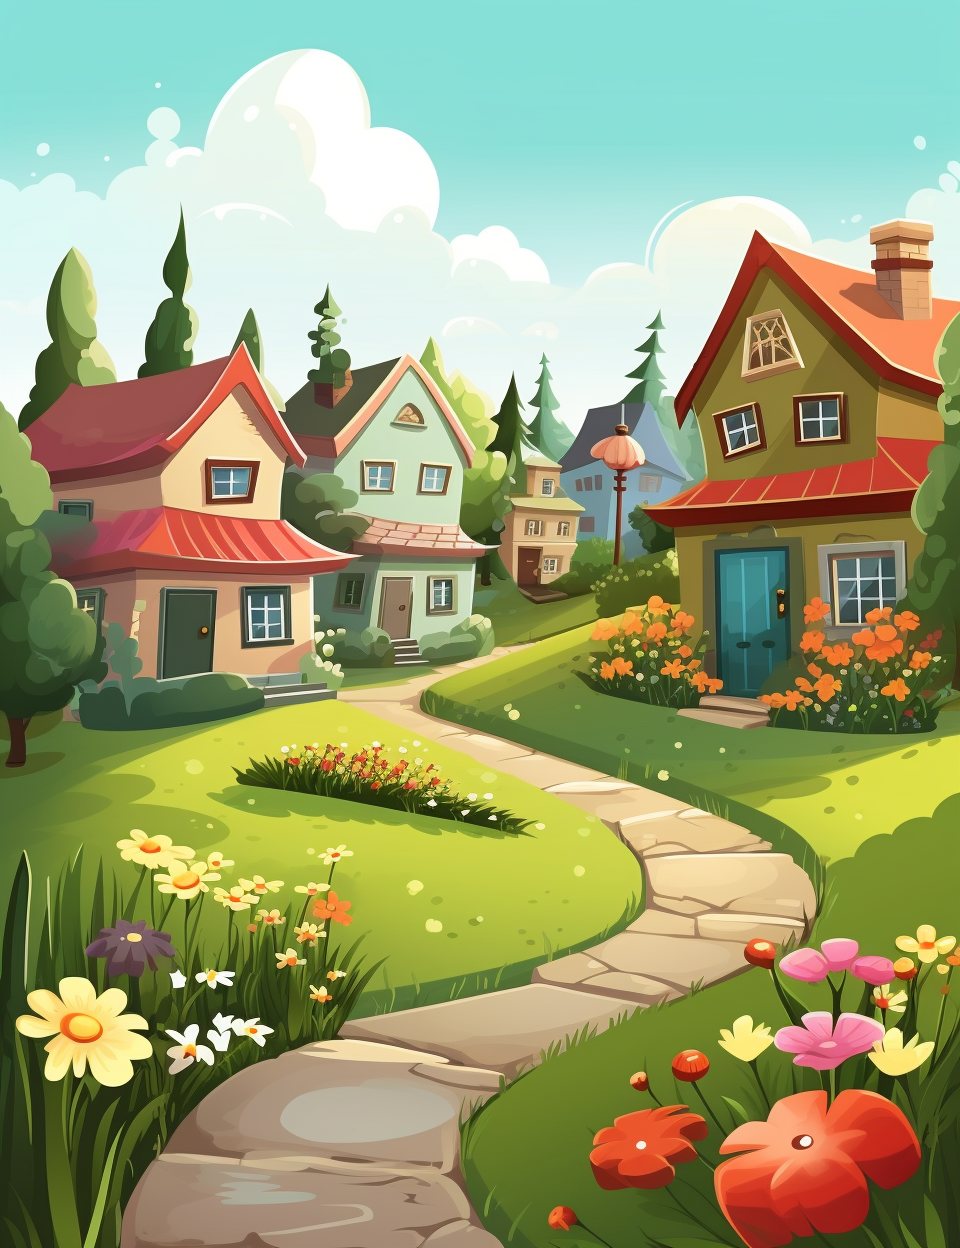
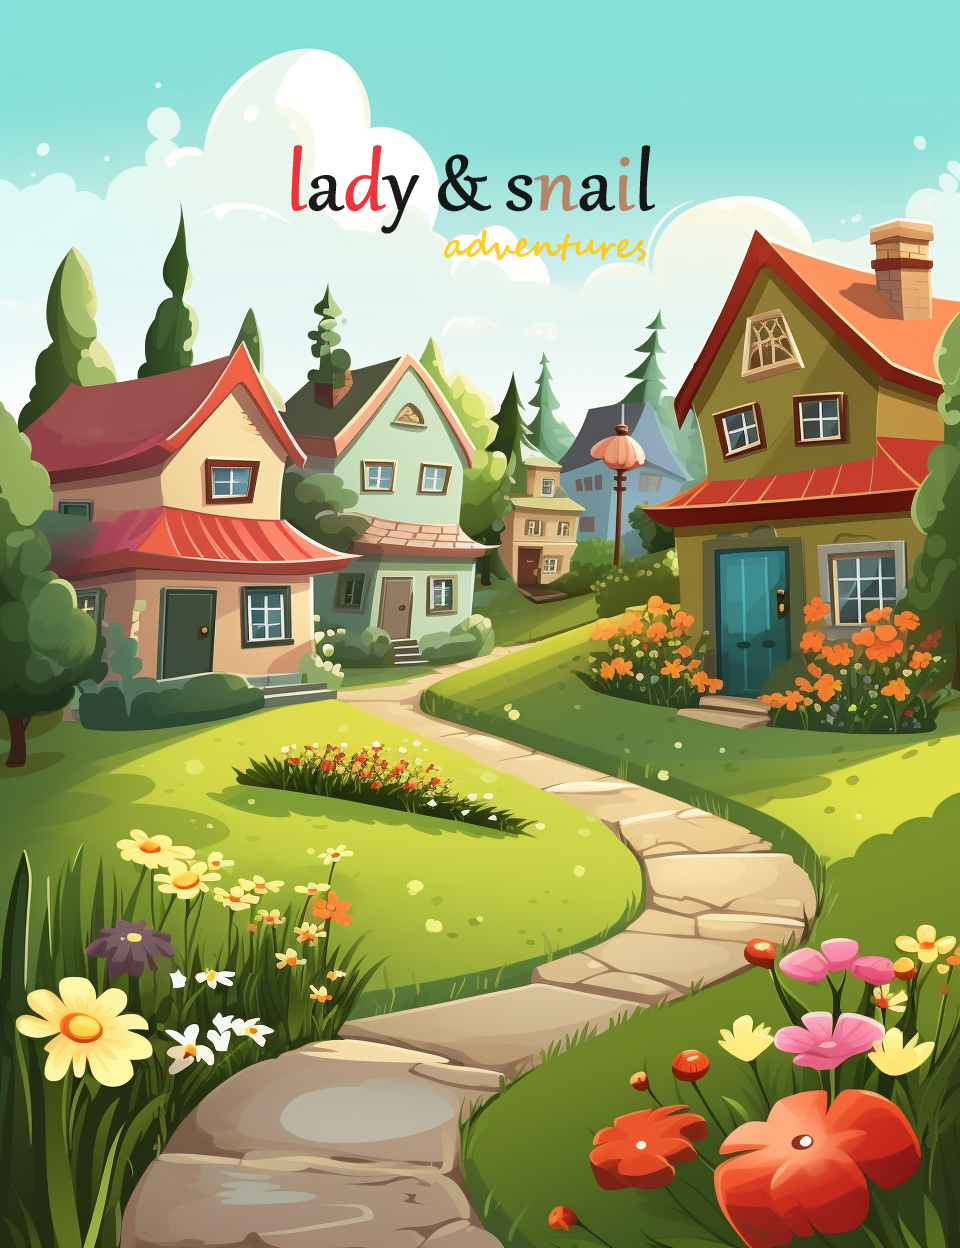
more assets and first lines of code

Changed region(s): [[0.2812, 0.125, 0.6875, 0.2188]]

diff --git a/index.html b/index.html
@@ -1,0 +1,45 @@
+<!DOCTYPE html>
+<html lang="en">
+  <head>
+    <meta charset="UTF-8" />
+    <meta name="viewport" content="width=device-width, initial-scale=1.0" />
+    <meta http-equiv="X-UA-Compatible" content="ie=edge" />
+    <link rel="stylesheet" href="./styles/style.css" />
+    <title>Lady and Snail Adventures</title>
+  </head>
+  <body>
+    <main>
+      <div id="game-intro">
+        <img src="./images/background2.png" alt="" class="background2-img" />
+        <br />
+        <button id="start-button">Start Game</button>
+        <p>Use the left and right arrow to control the character!</p>
+        <img src="./images/arrows.png" alt="" class="arrows-img" />
+      </div>
+
+      <div id="game-container">
+        <div>
+          <h2>Stats</h2>
+          <p>Score: <span id="Score">0</span></p>
+          <p>Lives: <span id="Lives">0</span></p>
+        </div>
+        <!-- #game-screen is initially hidden using CSS style display: none -->
+        <div id="game-screen"></div>
+      </div>
+
+      <!-- #game-end is initially hidden using CSS style display: none -->
+      <div id="game-end">
+        <img src="./images/gameover.png" alt="" class="game-over-screen" />
+        <h1>Game Over</h1>
+        <br />
+        <button id="restart-button">Restart</button>
+      </div>
+    </main>
+    <script type="text/javascript" src="js/obstacle-bad.js"></script>
+    <script type="text/javascript" src="js/obstacle-good.js"></script>
+    <script type="text/javascript" src="js/snail.js"></script>
+    <script type="text/javascript" src="js/ladybird.js"></script>
+    <script type="text/javascript" src="js/game.js"></script>
+    <script type="text/javascript" src="js/script.js"></script>
+  </body>
+</html>

diff --git a/styles/styles.css b/styles/styles.css
@@ -1,0 +1,66 @@
+body {
+    padding: 0;
+    text-align: center;
+  }
+  
+  #game-intro {
+    padding: 20px 0px;
+  }
+  
+  #game-container {
+    display: flex;
+    width: 100vw;
+    padding: 20px 0px;
+    justify-content: center;
+  }
+  
+  #game-screen {
+    display: none;
+    align-content: center;
+    padding: 20px 0px;
+    overflow: hidden;
+    position: relative;
+    background-image: url(../images/background.jpg);
+    background-size: cover;
+    animation: slide 5s linear infinite;
+  }
+  
+  @keyframes slide {
+    0% {
+      background-position: 0 -1000px;
+    }
+    95% {
+      background-position: 0 0;
+    }
+    100% {
+      background-position: 0 50px;
+    }
+  }
+  
+  #game-end {
+    display: none;
+  }
+  
+  .game-intro p {
+    font-size: 18px;
+    font-family: "Verdana";
+  }
+  
+  .logo-img {
+    width: 350px;
+  }
+  
+  .arrows-img {
+    width: 150px;
+  }
+  
+  body button {
+    font-size: 30px;
+    background-color: #870007;
+    color: #fff;
+    padding: 20px 40px;
+    border: 0;
+    box-shadow: 0;
+    border-radius: 5px;
+    margin-bottom: 20px;
+  }

diff --git a/js/game.js b/js/game.js
@@ -1,0 +1,34 @@
+class Game {
+  constructor() {
+    this.startScreen = document.getElementById("game-intro");
+    this.gameScreen = document.getElementById("game-screen");
+    this.gameEndScreen = document.getElementById("game-end");
+    this.player1 = new Player(
+      this.gameScreen,
+      50,
+      50,
+      400,
+      250,
+      "../images/ladyplayer.png"
+    );
+    this.player2 = new Player(
+      this.gameScreen,
+      50,
+      50,
+      400,
+      250,
+      "../images/snailplayer.png"
+    );
+    this.height = 600;
+    this.width = 500;
+    this.obstacles = [new Obstacle(this.gameScreen)];
+    this.score = 0;
+    this.lives = 0;
+    this.isGameOver = false;
+    this.gameIntervalId = null;
+    this.gameLoopFrequency = 1000 / 60;
+  }
+}
+
+
+// same class of player, give different speed and lives
